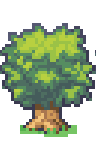
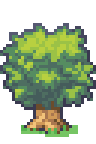
Added better collisions

diff --git a/graphics/objects/obj48.tsx b/graphics/objects/obj48.tsx
@@ -1,7 +1,13 @@
 <?xml version="1.0" encoding="UTF-8"?>
-<tileset version="1.9" tiledversion="1.9.2" name="obj48" tilewidth="96" tileheight="144" tilecount="1" columns="0">
+<tileset version="1.9" tiledversion="1.9.2" name="obj48" tilewidth="96" tileheight="144" tilecount="3" columns="0">
  <grid orientation="orthogonal" width="1" height="1"/>
  <tile id="0">
   <image width="96" height="144" source="tree1_48.png"/>
+ </tile>
+ <tile id="1">
+  <image width="96" height="144" source="tree_top1.png"/>
+ </tile>
+ <tile id="2">
+  <image width="96" height="66" source="tree_bottom1.png"/>
  </tile>
 </tileset>

diff --git a/code/lvl.py b/code/lvl.py
@@ -17,8 +17,11 @@ class Level:
         for x, y, surf in tmx_data.get_layer_by_name("sea").tiles():
             Generic((x * TILE_SIZE, y * TILE_SIZE), surf, [self.all_sprites], LAYERS["water"])
 
-        for obj in tmx_data.get_layer_by_name("trees"):
-            Tree((obj.x, obj.y), pygame.transform.scale(obj.image, (obj.width * 2, obj.height * 2)), [self.all_sprites, self.collision_sprites], obj.name)
+        for obj in tmx_data.get_layer_by_name("tree_top"):
+            Tree_Top((obj.x, obj.y), pygame.transform.scale(obj.image, (obj.width * 2, obj.height * 2)), [self.all_sprites, self.collision_sprites], LAYERS["house top"], obj.name)
+
+        for obj in tmx_data.get_layer_by_name("tree_bottom"):
+            Tree_Bottom((obj.x, obj.y), pygame.transform.scale(obj.image, (obj.width * 2, obj.height * 2)), [self.all_sprites, self.collision_sprites], LAYERS["main"], obj.name)
 
         Generic(pos = (0,0), surf = pygame.transform.scale_by(pygame.image.load('graphics/world/ground48.png').convert_alpha(), (2, 2)), groups = self.all_sprites, z = LAYERS['ground'])
         self.player = Player((640, 360), self.all_sprites, self.collision_sprites)

diff --git a/code/player.py b/code/player.py
@@ -94,6 +94,15 @@ class Player(pygame.sprite.Sprite):
                             self.hitbox.left = sprite.hitbox.right
                         self.rect.centerx = self.hitbox.centerx
                         self.position.x = self.hitbox.centerx
+                    if direction == "vertical":
+                        if self.direction.y > 0:
+                            self.hitbox.bottom = sprite.hitbox.top
+                        if self.direction.y < 0:
+                            self.hitbox.top = sprite.hitbox.bottom
+                        self.rect.centery = self.hitbox.centery
+                        self.position.y = self.hitbox.centery
+                        
+
 
     def move(self, dt):
         if self.direction.magnitude() > 0:
@@ -107,6 +116,7 @@ class Player(pygame.sprite.Sprite):
         self.position.y += self.direction.y*self.speed*dt
         self.hitbox.centery = round(self.position.y)
         self.rect.centery = self.hitbox.centery
+        self.collision("vertical")
 
     def update(self, dt):
         self.input()

diff --git a/code/sprites.py b/code/sprites.py
@@ -10,5 +10,18 @@ class Generic(pygame.sprite.Sprite):
         self.hitbox = self.rect.copy().inflate((-self.rect.width * 0.2,-self.rect.height * 0.2))
 
 class Tree(Generic):
-    def __init__(self, pos, surf, groups, name):
-        super().__init__(pos, surf, groups)
+    def __init__(self, pos, surf, groups, z, name):
+        super().__init__(pos, surf, groups, z)
+        self.hitbox = self.rect.copy().inflate((-self.rect.width * 0.7,-self.rect.height * 0.3))
+
+class Tree_Top(Tree):
+    def __init__(self, pos, surf, groups, z, name):
+        super().__init__(pos, surf, groups, z, name)
+        self.hitbox = self.rect.copy().inflate((-self.rect.width * 0.99,-self.rect.height * 0.99))
+        
+class Tree_Bottom(Tree):
+    def __init__(self, pos, surf, groups, z, name):
+        super().__init__(pos, surf, groups, z, name)
+        self.hitbox = self.rect.copy().inflate((-self.rect.width * 0.7,-self.rect.height * 0.2))
+
+
